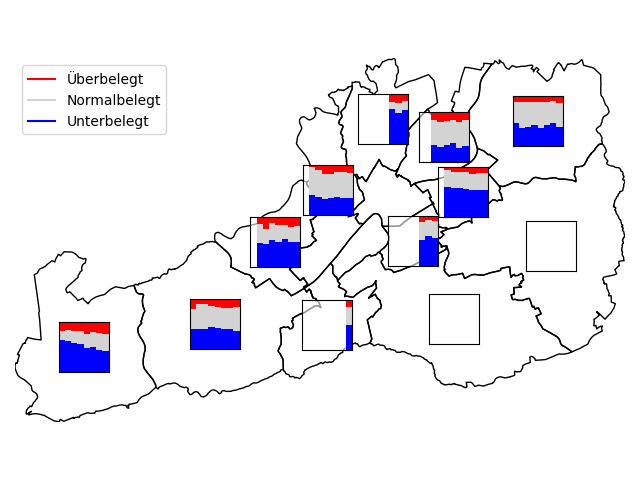
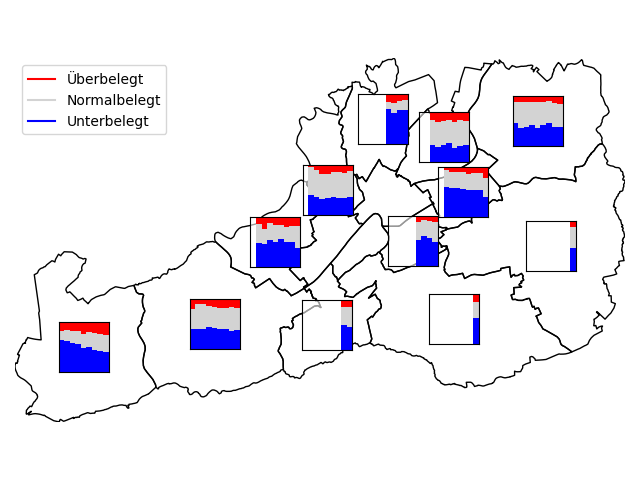
Nachjustierung xLim in Miniplots

diff --git a/scripts/belegungsdichte/miniplot.py b/scripts/belegungsdichte/miniplot.py
@@ -59,7 +59,7 @@ def add_quartier_to_plt(ax: Axes,
 
     # Ax limits
     ax_mini.set_ylim([0, 1])
-    ax_mini.set_xlim([years[0] - WIDTH/2, years[-1] - WIDTH/2])
+    ax_mini.set_xlim([years[0] - WIDTH/2, years[-1] + WIDTH/2])
 
     return ax_mini
 
